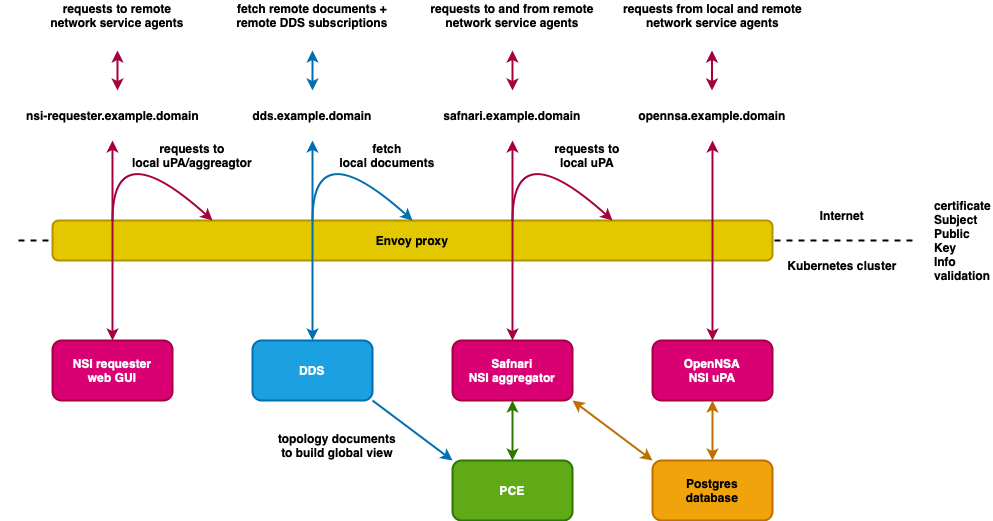
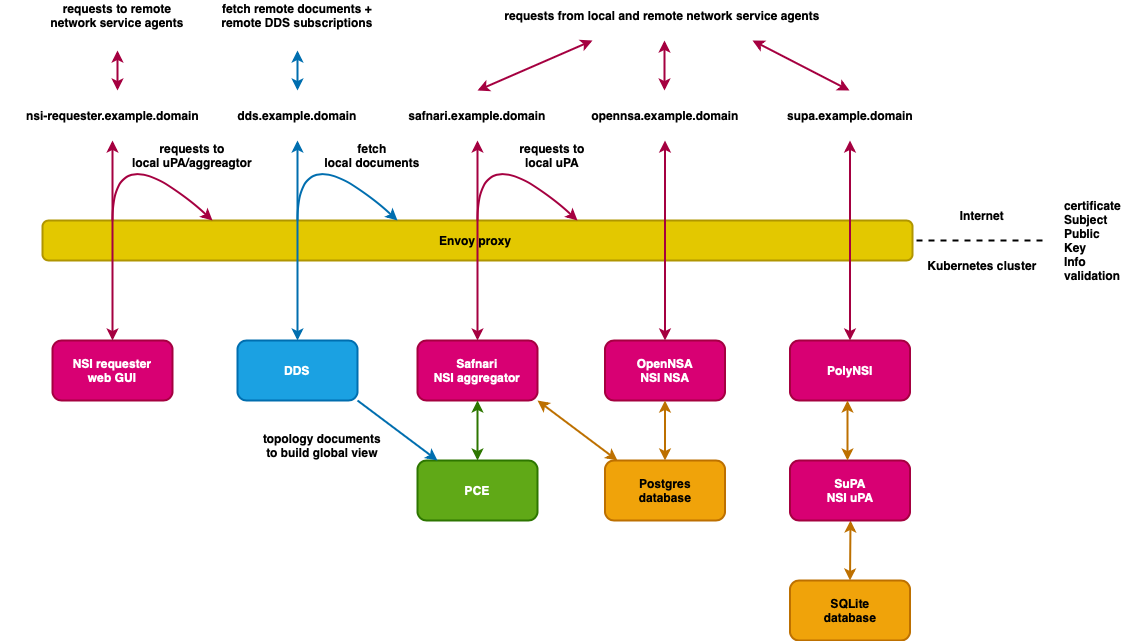
add SuPA and PolyNSI to README

diff --git a/README.md b/README.md
@@ -5,8 +5,10 @@ combination of the NSI aggregator
 [Safnari](https://github.com/BandwidthOnDemand/nsi-safnari) and
 [PCE](https://github.com/BandwidthOnDemand/nsi-pce), [Document Distribution
 Service](https://github.com/BandwidthOnDemand/nsi-dds), network service agent
-[OpenNSA](https://github.com/BandwidthOnDemand/nsi-opennsa) and [NSI requester
-client](https://github.com/BandwidthOnDemand/nsi-requester), together with a
+[OpenNSA](https://github.com/BandwidthOnDemand/nsi-opennsa), ultimate provide agent
+[SuPA](https://github.com/workfloworchestrator/SuPA) in combination with NSI SOAP/gRPC proxy
+[PolyNSI](https://github.com/workfloworchestrator/PolyNSI), and
+[NSI requester client](https://github.com/BandwidthOnDemand/nsi-requester), together with a
 [Postgresql](https://bitnami.com/stack/postgresql/helm) database and
 [Envoy](https://github.com/BandwidthOnDemand/nsi-envoy) proxy for access
 authorisation.
@@ -21,6 +23,7 @@ authorisation.
   * [Patch Computation Element (PCE)](#patch-computation-element-pce)
   * [Safnari NSI Aggregator](#safnari-nsi-aggregator)
   * [OpenNSA NSI uPA](#opennsa-nsi-upa)
+  * [SuPA NSI uPA and PolyNSI](#supa-nsi-upa-and-polynsi)
   * [NSI Requester Web GUI](#nsi-requester-web-gui)
   * [PostgreSQL database](#postgresql-database)
   * [Envoy proxy](#envoy-proxy)
@@ -129,14 +132,24 @@ received and sent.
 OpenNSA is a NSI ultimate Provider Agent (uPA) that interfaces between NSI and
 the local network. The pluggable backends allow for interfacing towards a local
 Network Resource Manager (NRM) or talk directly to a local network element.
-Recently OpenNSA also has partial aggregation support that allows for hosting
+OpenNSA also has partial aggregation support that allows for hosting
 multiple network topologies on a single OpenNSA instance. The discovery
 document of this NSA is located at
 https://opennsa.example.domain/NSI/discovery.xml.
 
-OpenNSA uses the plugable backend system to interface to the local network
+OpenNSA uses the pluggable backend system to interface to the local network
 resources. The OpenNSA topology configuration file maps STP and SDP to local
-port indentifiers and VLAN ranges.
+port identifiers and VLAN ranges.
+
+### SuPA NSI uPA and PolyNSI
+
+SuPA is a complete new NSI ultimate provider agent that uses modern design
+patterns and implements the latest NSI protocol specification. It offers a gRPC
+based version of the NSI protocol and is accompanied by PolyNSI that acts as a
+NSI SOAP/gRPC proxy to interface with existing SOAP based NSA. It also has a
+pluggable backend mechanism and offers both manual and automated topology
+generation. The discovery document of this NSA is located at
+https://supa.example.domain/NSI/discovery.
 
 ### NSI Requester Web GUI
 
@@ -236,6 +249,7 @@ config
 ├── nsi-envoy
 ├── nsi-opennsa
 ├── nsi-pce
+├── polynsi
 └── nsi-safnari
 ```
 
@@ -428,6 +442,31 @@ At least the following should be configured:
 * ***.nrm**
   * Add at least one network resource map to reflect the STP's in the topology you are exposing.
     Any filename with suffix `.nrm` will be included.
+
+#### polynsi
+
+```ignorelang
+config
+└── polynsi
+    ├── certificates
+    │   ├── key
+    │   └── trust
+    └── templates
+        ├── application.properties
+        ├── envoy-cluster.yaml
+        └── envoy-filter_chain_match.yaml
+```
+
+Please refer to the
+[PolyNSI configuration documentation](https://github.com/workfloworchestrator/PolyNSI#configuration)
+for more information.
+
+#### supa
+
+SuPA is configured with an inline `supa.env` in the nsi-node `values.yaml` configuration.
+Please refer to the
+[SuPA configuration documentation](https://workfloworchestrator.org/SuPA/index.html)
+for more information.
 
 #### nsi-envoy
 
